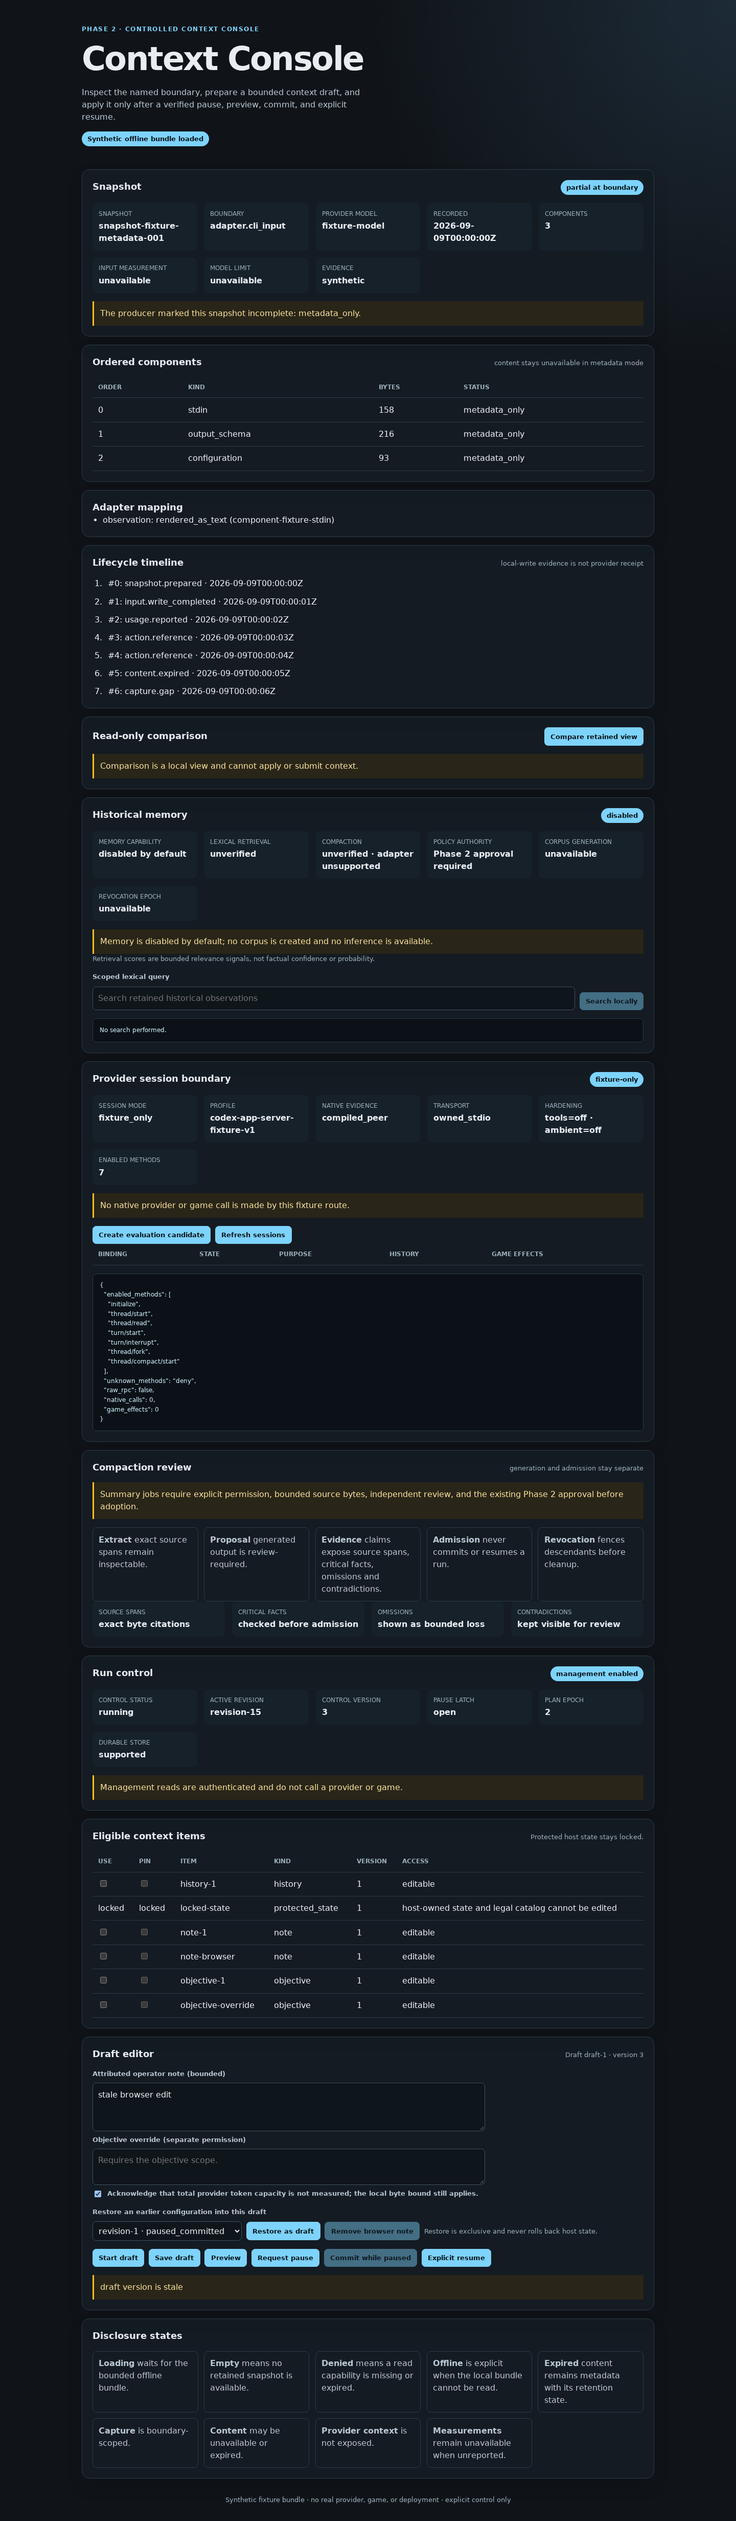
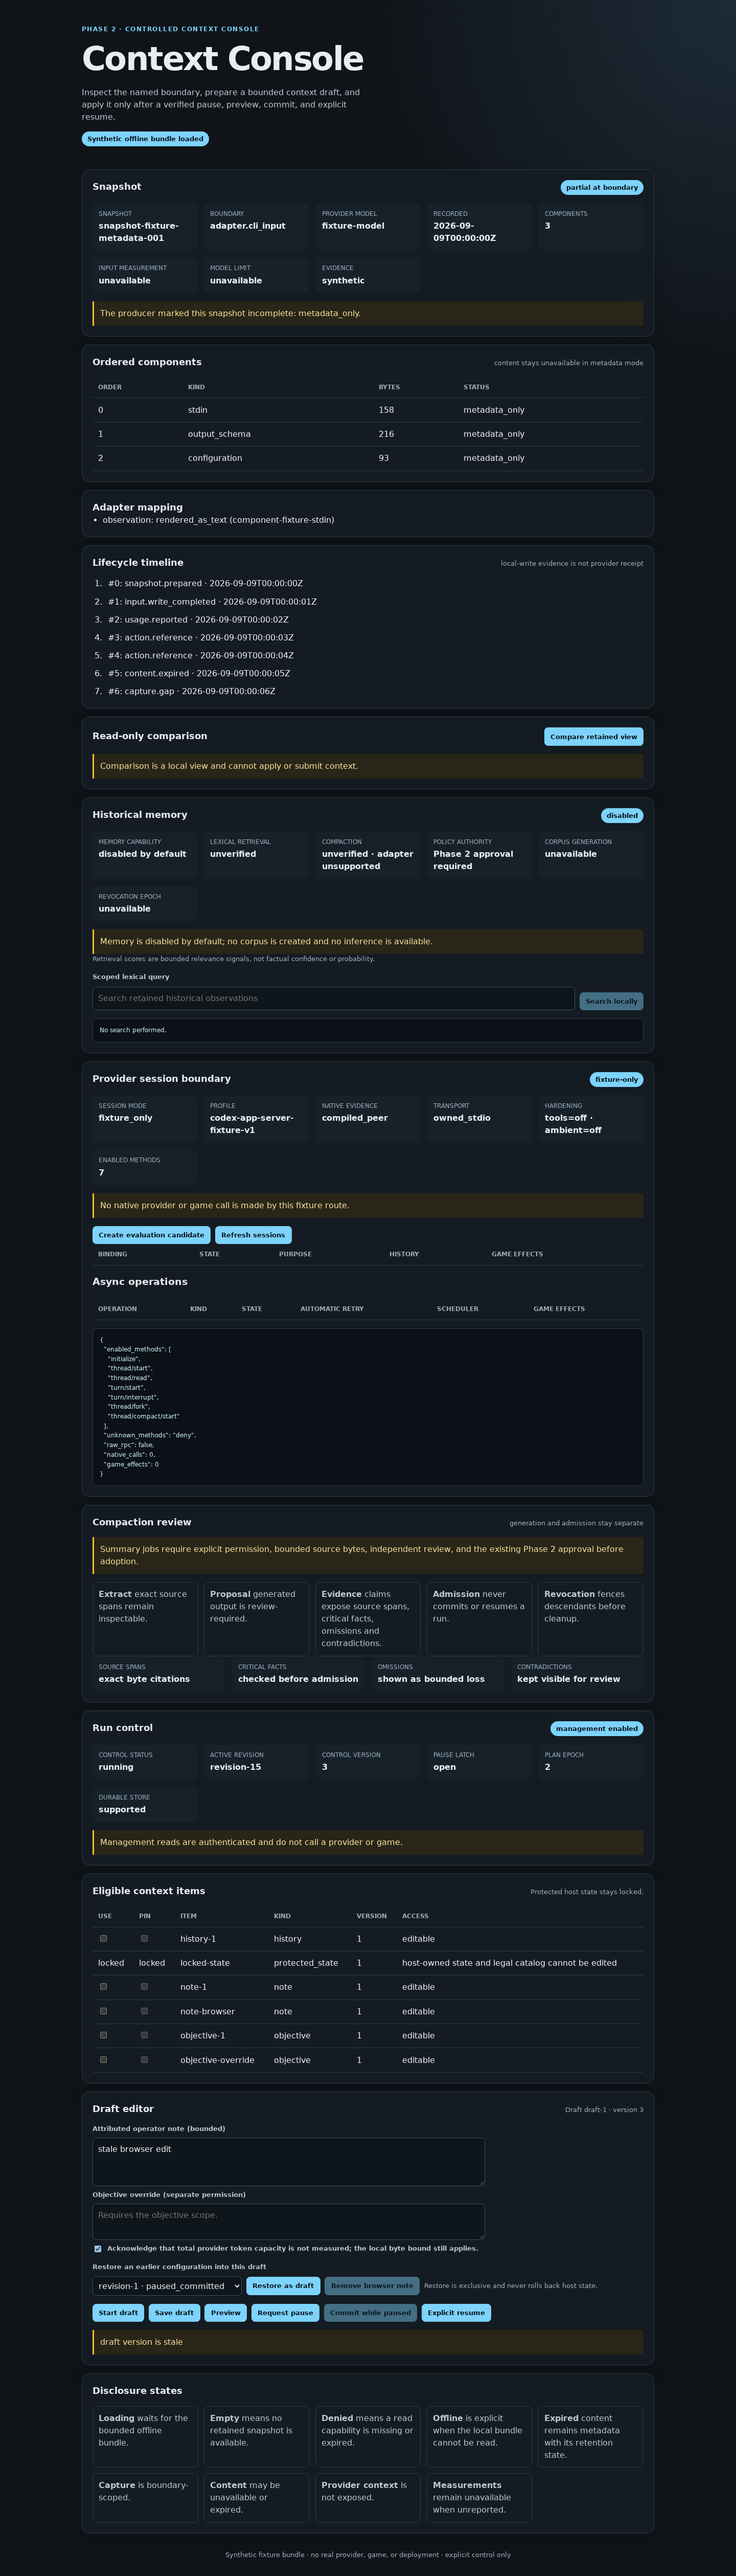
Refresh browser audit evidence at the integrated main revision
Run the Playwright audits against revision b03f2f5 and regenerate the
revision-pinned evidence: integrated browser UI JSON, phase2 browser UI JSON
and screenshots, and the phase4 session-loopback JSON. All audits exit 0 with
zero provider/game/external calls.

Record the result in VERIFICATION.md (§8, supersedes the earlier unverified
note) and document the headless library/module environment in the audit README.

diff --git a/VERIFICATION.md b/VERIFICATION.md
@@ -142,7 +142,7 @@ Gate-output comparison:
 
 ---
 
-## 5. Browser audit
+## 5. Browser audit (superseded by §8)
 
 `node tools/browser-audit/integrated_browser_audit.cjs` → **FAILS to run**:
 `Error: Cannot find module 'playwright'` (`MODULE_NOT_FOUND`), `EXIT=1`
@@ -198,7 +198,7 @@ fully exercised without Playwright.
 
 ## 7. Unverified / unsupported / caveats
 
-1. **Browser audit — unverified.** `playwright` is not installed, so no browser run, screenshots,
+1. **Browser audit — unverified at the time of this run (superseded by §8).** `playwright` is not installed, so no browser run, screenshots,
    rendered-DOM assertions, storage/CSP checks, or adversarial-payload checks were performed.
    `docs/evidence/*.json` were therefore **not** regenerated.
 2. **`docs/evidence/*.json` still name old paths** (`web/app.js`, `web/styles.css`,
@@ -227,3 +227,36 @@ fully exercised without Playwright.
 8. **`raw code diff equivalence` not independently recomputed line-by-line.** The verifier relied on
    the behavioral differential (29/29) and the symbol/constant checks rather than per-line AST
    comparison; the worker-supplied verbatim-diff reports were not re-derived.
+
+---
+
+## 8. Update — mainline integration browser audit (2026-09-12, revision b03f2f5)
+
+Supersedes §5 and §7 items 1-2 for the merged `main` revision.
+
+Playwright 1.63.0 is available from the cached module path and Chromium 1243 is installed; the
+headless system libraries are staged under `/tmp/ascension-browser-libs/root-20260911`. The browser
+audits were re-run at merge revision `b03f2f56af05549cf33b43a95be2c4217ecb06fa` (`main`):
+
+```bash
+export LD_LIBRARY_PATH=/tmp/ascension-browser-libs/root-20260911/usr/lib/x86_64-linux-gnu:/tmp/ascension-browser-libs/root-20260911/lib/x86_64-linux-gnu
+export FONTCONFIG_FILE=/tmp/ascension-browser-libs/fontconfig-runtime-20260911.conf
+export FONTCONFIG_PATH=/tmp/ascension-browser-libs/root-20260911/etc/fonts
+export XDG_DATA_DIRS=/tmp/ascension-browser-libs/root-20260911/usr/share:/usr/local/share:/usr/share
+export PLAYWRIGHT_MODULE=/home/agent/.npm/_npx/e41f203b7505f1fb/node_modules/playwright
+
+node tools/browser-audit/integrated_browser_audit.cjs   # EXIT=0
+node tools/phase2_browser_audit.cjs                      # EXIT=0
+node tools/phase4_session_loopback.cjs                   # EXIT=0
+```
+
+- Integrated audit: `result=passed`, `exit_code=0`, Playwright 1.63.0, browser 153.0.8010.12,
+  all 18 assertions true (adversarial text-only payload, manifest path rejection, keyboard
+  comparison, reduced motion, no browser persistence, no narrow overflow, memory-disabled shadow,
+  phase4 session fixture, CSRF denied, async-state distinctness).
+- Refreshed evidence: `docs/evidence/integrated-browser-ui-20260910.json` (revision b03f2f5, no
+  stale paths; `source_artifacts` point at `demo/*.rs` and `web/js/*`), plus
+  `phase2-browser-ui-20260910.json`, the two phase2 screenshots, and
+  `phase4-session-loopback-20260911.json` (all `passed`, zero provider/game/external calls).
+- §7 item 1 (browser audit unverified) and item 2 (evidence still names old paths) no longer apply
+  to the current `main` revision.

diff --git a/tools/browser-audit/README.md b/tools/browser-audit/README.md
@@ -31,3 +31,18 @@ resolution path; provide a Playwright installation that is external to this repo
 The audit writes `docs/evidence/integrated-browser-ui-20260910.json` plus desktop and narrow
 screenshots into `docs/evidence/`. Evidence files are owned by the docs workstream; do not edit
 them by hand.
+
+## Headless prerequisites
+
+The audit needs a Playwright module that matches the cached Chromium build and the usual headless
+Chromium shared libraries. When they are not installed system-wide, point the environment at the
+cached module and a staged library root, for example:
+
+```bash
+export LD_LIBRARY_PATH=/tmp/ascension-browser-libs/root-20260911/usr/lib/x86_64-linux-gnu:/tmp/ascension-browser-libs/root-20260911/lib/x86_64-linux-gnu
+export FONTCONFIG_FILE=/tmp/ascension-browser-libs/fontconfig-runtime-20260911.conf
+export FONTCONFIG_PATH=/tmp/ascension-browser-libs/root-20260911/etc/fonts
+export XDG_DATA_DIRS=/tmp/ascension-browser-libs/root-20260911/usr/share:/usr/local/share:/usr/share
+export PLAYWRIGHT_MODULE=/home/agent/.npm/_npx/e41f203b7505f1fb/node_modules/playwright
+node tools/browser-audit/integrated_browser_audit.cjs
+```
